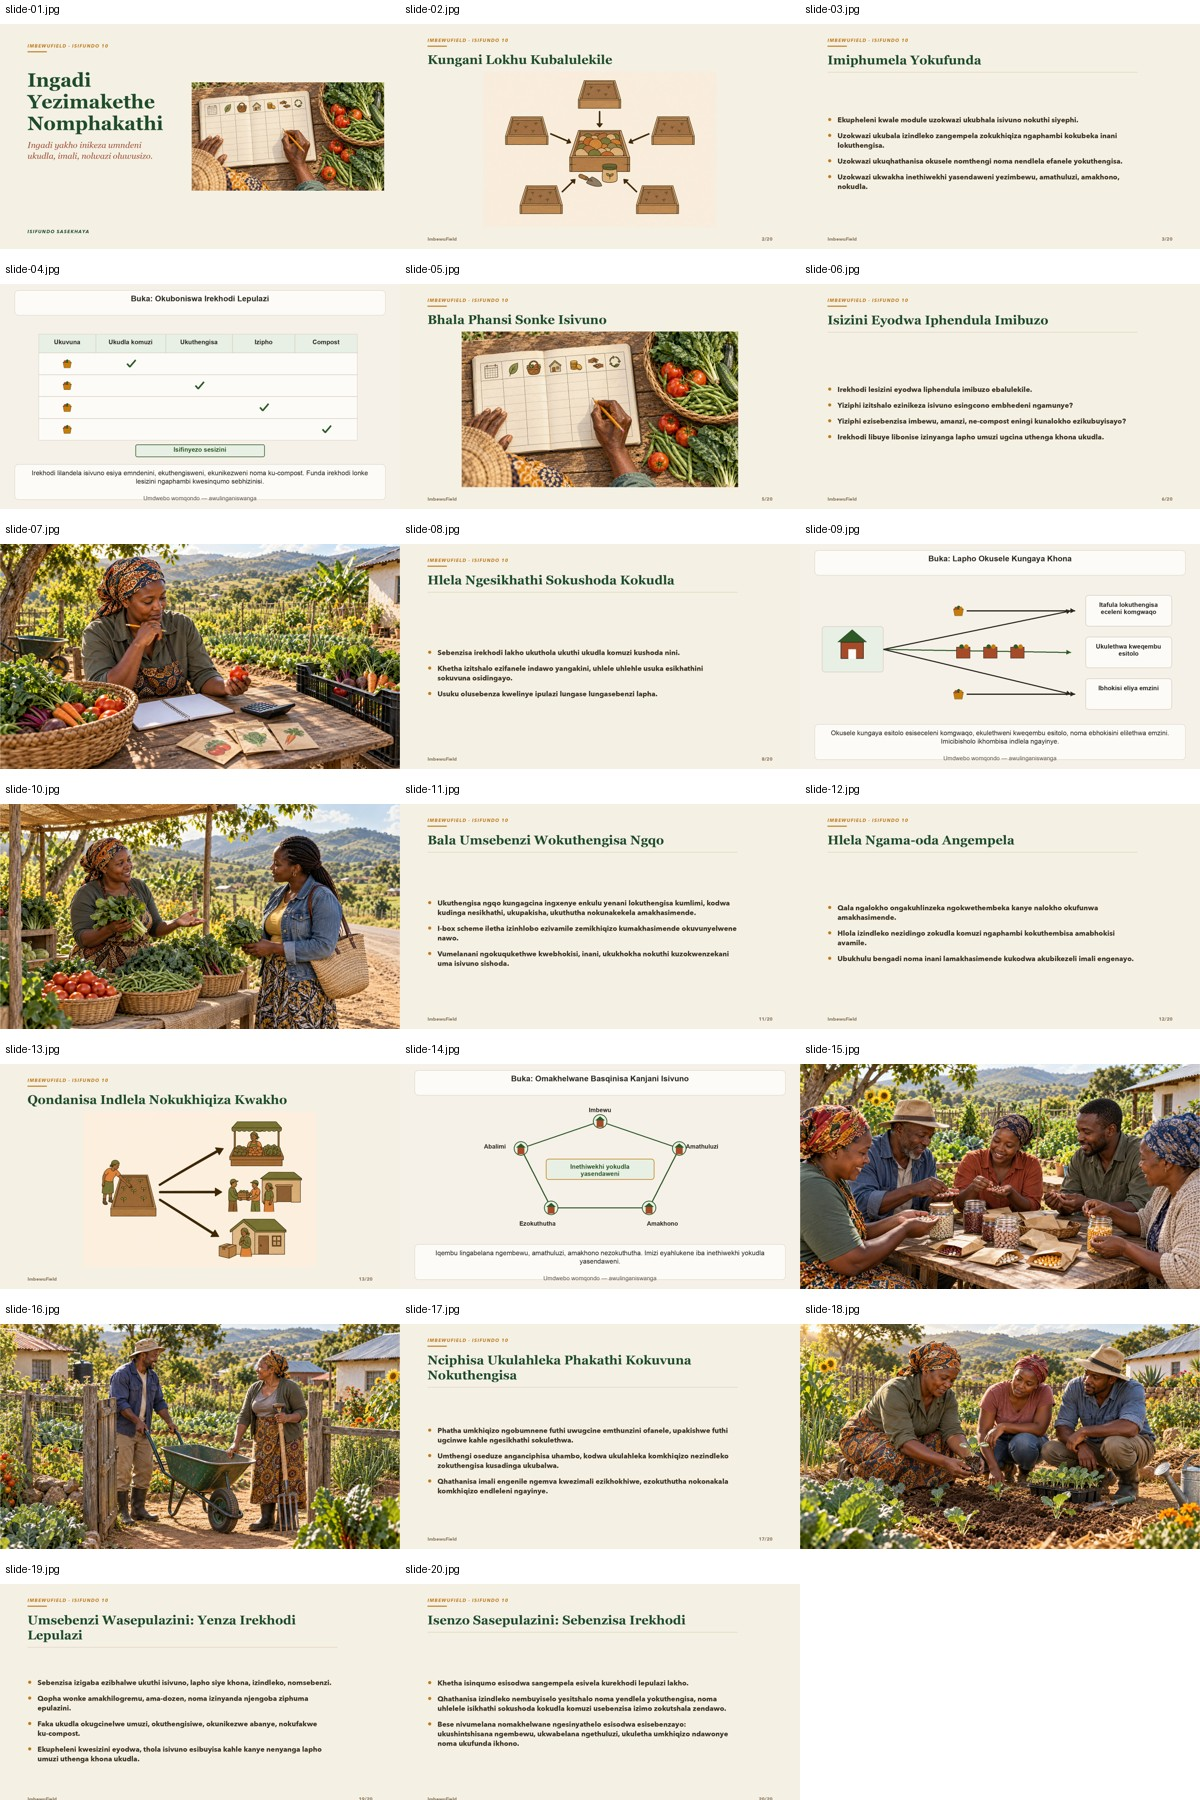
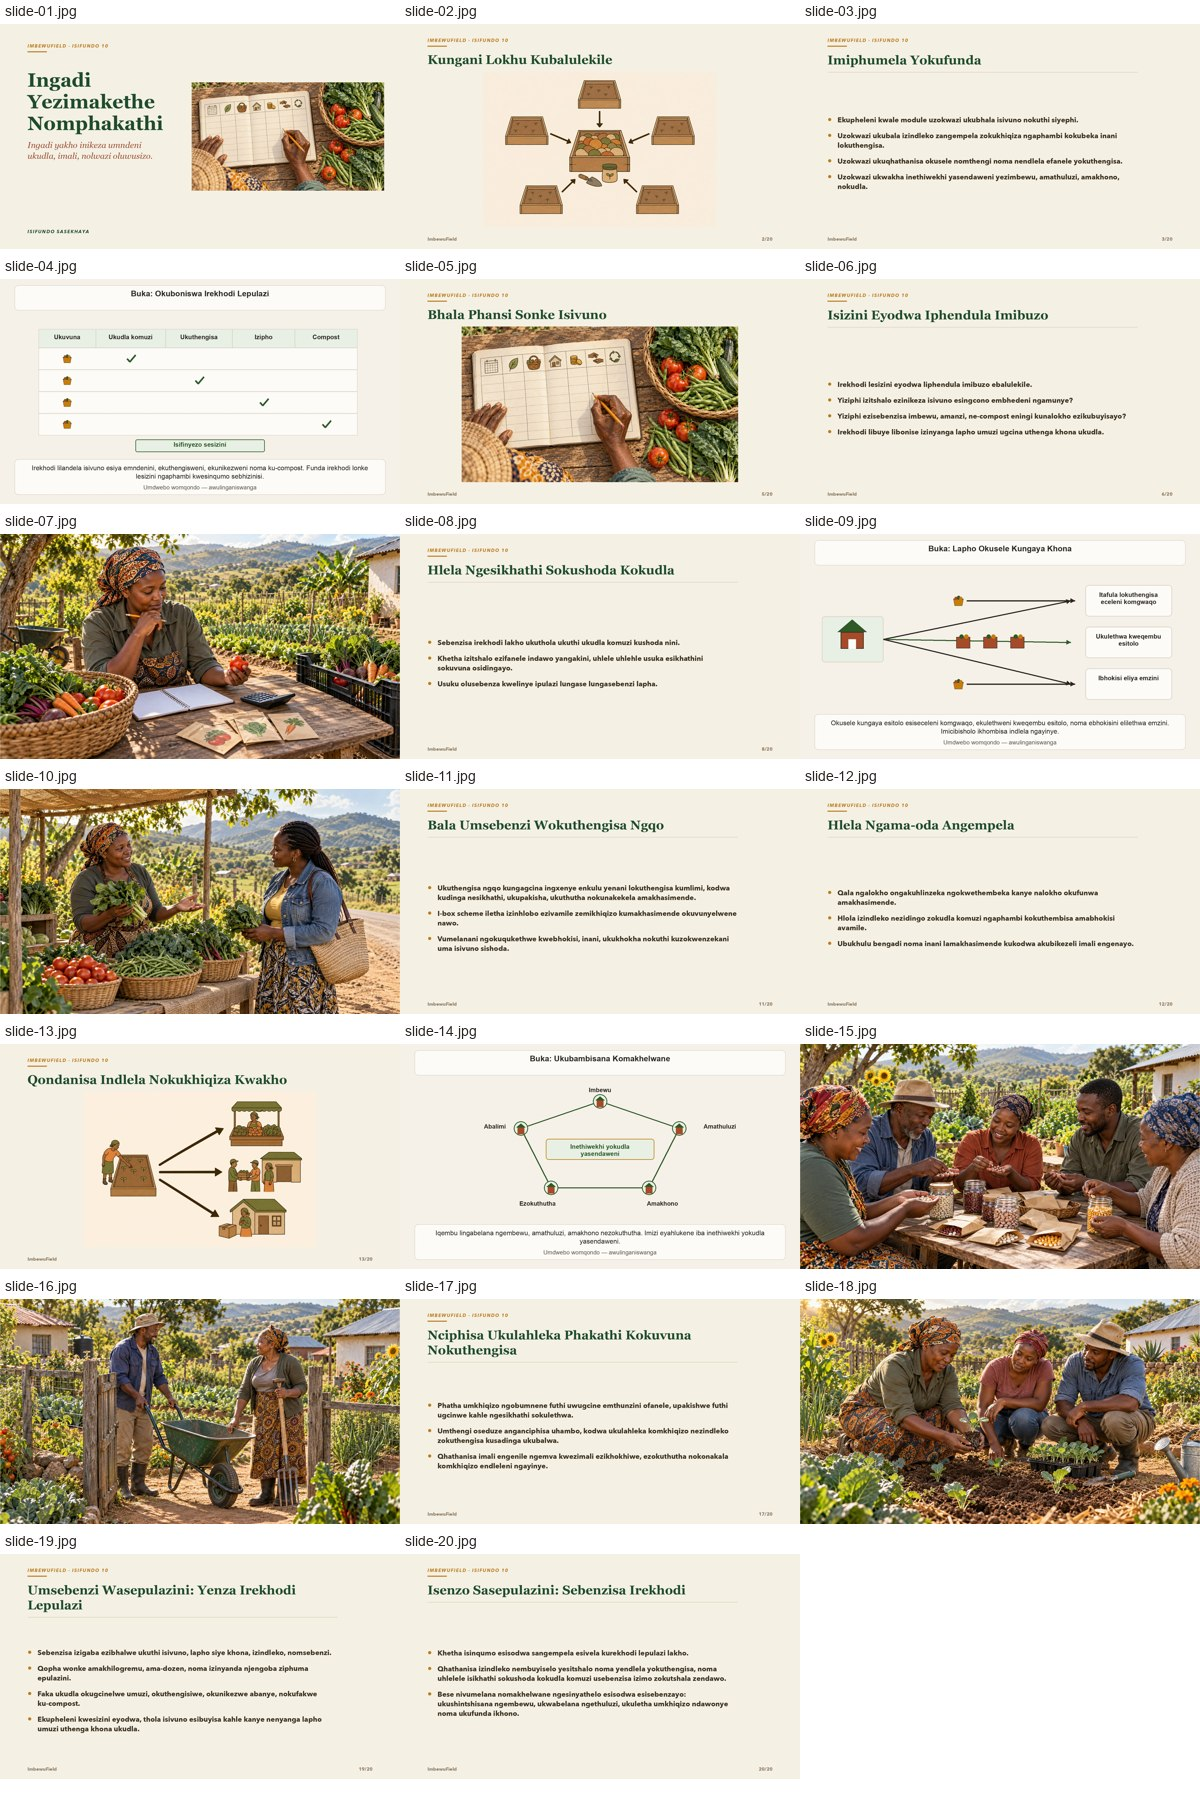
Align Market isiZulu title and farmer update notes

diff --git a/lib/course-audio.ts b/lib/course-audio.ts
@@ -713,7 +713,8 @@ export const COURSE_NARRATION: Record<string, ModuleNarration> = {
     // Corrected English recorded 2026-09-20, en-ZA-LukeNeural at -12%.
     // Word-boundary/script matching and full decode passed; fluent listening review is separate.
     // IsiZulu generated 2026-09-24 with zu-ZA-ThandoNeural at -12%, against corrected
-    // slide-only script SHA da430cef. Clip text, timing and full decode checks pass; human listening,
+    // slide-only script body recorded at SHA da430cef; its slide 14 display heading was later
+    // shortened without changing spoken text. Clip text and full decode checks pass; human listening,
     // fluent-language and local farming review are still pending. Keep this visible as a draft.
     tracks: [
       { slide: 1,  lesson: null,                  title: 'Market Gardening & Community', titleByLang: { zu: 'Ingadi Yezimakethe Nomphakathi' } },
@@ -729,7 +730,7 @@ export const COURSE_NARRATION: Record<string, ModuleNarration> = {
       { slide: 11, lesson: 'market-community-l2', title: 'Count the Work of Direct Selling', titleByLang: { zu: 'Bala Umsebenzi Wokuthengisa Ngqo' } },
       { slide: 12, lesson: 'market-community-l2', title: 'Plan Around Real Orders', titleByLang: { zu: 'Hlela Ngama-oda Angempela' } },
       { slide: 13, lesson: 'market-community-l2', title: 'Match the Channel to Your Supply', titleByLang: { zu: 'Qondanisa Indlela Nokukhiqiza Kwakho' } },
-      { slide: 14, lesson: 'market-community-l3', title: 'Watch: How Neighbours Strengthen a Harvest', titleByLang: { zu: 'Buka: Omakhelwane Basqinisa Kanjani Isivuno' } },
+      { slide: 14, lesson: 'market-community-l3', title: 'Watch: How Neighbours Strengthen a Harvest', titleByLang: { zu: 'Buka: Ukubambisana Komakhelwane' } },
       { slide: 15, lesson: 'market-community-l3', title: 'Save Seed Together', titleByLang: { zu: 'Gcinani Imbewu Ndawonye' } },
       { slide: 16, lesson: 'market-community-l3', title: 'Share Expensive Tools', titleByLang: { zu: 'Yabelanani Ngamathuluzi Abizayo' } },
       { slide: 17, lesson: 'market-community-l3', title: 'Reduce Loss Between Harvest and Sale', titleByLang: { zu: 'Nciphisa Ukulahleka Phakathi Kokuvuna Nokuthengisa' } },

diff --git a/lib/release-notes.ts b/lib/release-notes.ts
@@ -42,6 +42,13 @@ export interface UpdateTourStop {
 
 /** Shown newest-first under the Refresh button. The banner renders at most MAX_SHOWN lines total. */
 export const RELEASE_NOTES: ReleaseNote[] = [
+  { when: '24 September 2026', sha: '146257a1', changes: [
+    'Market Gardening now shows 20 isiZulu still slides with its isiZulu narration.',
+    'Three teaching diagrams show the farm record, sales routes and neighbour network.',
+  ], tour: [
+    { title: 'View Market Gardening in isiZulu', where: 'My Studies · Market Gardening', href: '/student',
+      detail: 'Choose isiZulu, open Market Gardening, and view the narrated slides.' },
+  ] },
   { when: '24 September 2026', sha: '66f24e47', changes: [
     'Seeds lessons 2 and 3 now show isiZulu reading and quiz drafts.',
     'Seed lessons now explain tomato crossing and why stored seed must be dry.',

diff --git a/lib/narration-blockers.ts b/lib/narration-blockers.ts
@@ -44,7 +44,7 @@ export const NARRATION_RELEASE_EXCEPTIONS: Readonly<Record<string, {
   'market-community.zu': {
     reviewStatus: 'pending', authorizedBy: 'Rory Clark', authorizedOn: '2026-09-24',
     reviewRecord: 'docs/narration-reviews/MARKET-COMMUNITY-ZU-AUDIO-HOLD-2026-09-24.md',
[2 lines of base64/hex data omitted]
   },
   'intro-permaculture.zu': {
     reviewStatus: 'pending', authorizedBy: 'Rory Clark', authorizedOn: '2026-09-24',

diff --git a/docs/media/market-community/render-zu-deck.py b/docs/media/market-community/render-zu-deck.py
@@ -175,6 +175,15 @@ def main():
         png=OUT/f"slide-{n:02d}.png"; jpg=OUT/f"slide-{n:02d}.jpg"
         with Image.open(png) as im: im.convert("RGB").save(jpg,format="JPEG",quality=85,optimize=True)
         png.unlink()
+    sheet=Image.new("RGB",(1200,1800),"white")
+    label_font=font(14)
+    draw=ImageDraw.Draw(sheet)
+    for n in range(1,21):
+        x=((n-1)%3)*400; y=((n-1)//3)*255
+        draw.text((x+5,y+3),f"slide-{n:02d}.jpg",font=label_font,fill=INK)
+        with Image.open(OUT/f"slide-{n:02d}.jpg") as im:
+            sheet.paste(im.resize((400,225)),(x,y+24))
+    sheet.save(MEDIA/"market-community-zu-contact-sheet.jpg",quality=87,optimize=True)
     en=ROOT/"docs/narration/market-community.en.md";zu=ROOT/"docs/narration/market-community.zu.md"
     source={"module":"market-community","language":"zu","status":"unreviewed draft","sourceFiles":{str(p.relative_to(ROOT)):sha(p) for p in (en,zu)},"slides":[]}
     for n in range(1,21):

diff --git a/docs/narration-reviews/MARKET-COMMUNITY-ZU-AUDIO-HOLD-2026-09-24.md b/docs/narration-reviews/MARKET-COMMUNITY-ZU-AUDIO-HOLD-2026-09-24.md
@@ -40,8 +40,14 @@ are in the current script. v5 was generated from SHA-256
[1 lines of base64/hex data omitted]
 `~/Downloads/imbewu-record/market-community-zu-20260924-v5/`. The 20 clips have replaced the
 working-tree assets; a concatenated full narration also decodes successfully (607.152 seconds).
-The pending review exception now binds this exact source SHA. No commit or publication deployment
-has been made from this branch yet.
+The pending review exception initially bound this exact recording-source SHA. At that point,
+no commit or publication deployment had been made from the recording branch.
+
+On 24 September, after that audio batch was published, slide 14's display heading was shortened
+to `Buka: Ukubambisana Komakhelwane` to remove a visible malformed word. The spoken slide 14
+paragraphs and all 20 audio clips are unchanged. The current script SHA is
[1 lines of base64/hex data omitted]
+pending review exception follows that title-only edit. This is not a fluent-language sign-off.
 
 The batch uses Microsoft `zu-ZA-ThandoNeural` at `-12%`, matching Rory's voice
 direction. Per-slide proofs report text match, audio hash, word boundaries and

diff --git a/docs/WATCH-SLIDES-INVENTORY-2026-08-10.md b/docs/WATCH-SLIDES-INVENTORY-2026-08-10.md
@@ -234,7 +234,7 @@ Shares distribution network graphics with market-community Slide 4 and Slide 14.
 ### 9. Module: `market-community` — Slide 14
 
 - **Exact Heading (EN)**: `**Slide 14 — Watch: How Neighbours Strengthen a Harvest**`
-- **Exact Heading (ZU)**: `**Ikhasi 14 — Buka: Omakhelwane Basqinisa Kanjani Isivuno (Slide 14 — Watch: How Neighbours Strengthen a Harvest)**`
+- **Exact Heading (ZU)**: `**Ikhasi 14 — Buka: Ukubambisana Komakhelwane (Slide 14 — Watch: How Neighbours Strengthen a Harvest)**`
 - **Status & Location**: Missing (No clip in public/course-animations/)
 
 #### Verbatim Narration Body (Specification)

diff --git a/docs/narration/market-community.zu.md b/docs/narration/market-community.zu.md
@@ -131,7 +131,7 @@ Chaza ngokwethembeka izindlela okhulisa ngazo izitshalo. Ngaphambi kokufaka ileb
 
 ---
 
-**Ikhasi 14 — Buka: Omakhelwane Basqinisa Kanjani Isivuno (Slide 14 — Watch: How Neighbours Strengthen a Harvest)**
+**Ikhasi 14 — Buka: Ukubambisana Komakhelwane (Slide 14 — Watch: How Neighbours Strengthen a Harvest)**
 
 Ipulazi elilodwa lingakhiqiza ukudla.
 
